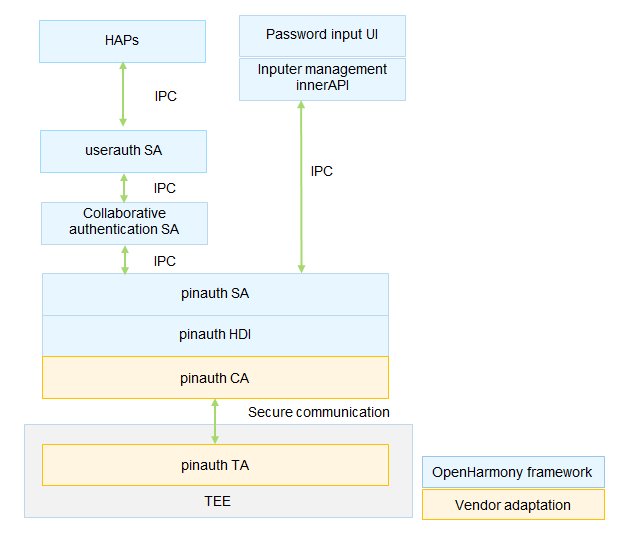
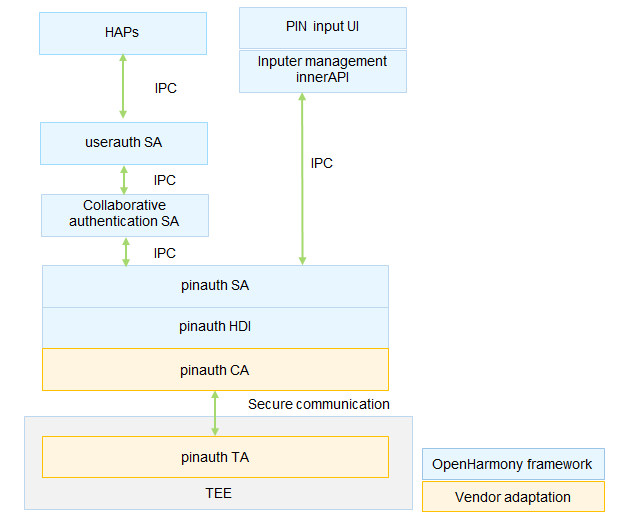
update docs

diff --git a/README.md b/README.md
@@ -4,9 +4,9 @@
 
 ## Introduction
 
-The PIN authentication (pinauth) module supports password authentication and allows users to set and delete passwords. Working with the basic framework of the IAM subsystem, the pinauth module supports change of user passwords.
+The PIN authentication (pinauth) module allows users to set and delete their Personal Information Numbers (PINs) and supports authentication of these PINs. Working with the basic framework of the User IAM subsystem, the pinauth module supports PIN change.
 
-As the basic user authentication executor of OpenHarmony, pinauth registers resource information related to password authentication to the collaborative authentication framework based on the resource registration interface defined by collaborative authentication, and implements password setting, deletion, and authentication based on the scheduling of the collaborative authentication framework.
+pinauth is one of the basic user identity authentication executors of OpenHarmony. It registers resource information related to PIN authentication to the collaborative authentication framework based on the resource registration interface defined by collaborative authentication, and implements PIN setting, deletion, and authentication based on the scheduling of the collaborative authentication framework.
 
 **Figure 1** pinauth architecture
 
@@ -14,29 +14,29 @@ As the basic user authentication executor of OpenHarmony, pinauth registers reso
 
 
 
-User passwords are core assets in the system. The following security measures are taken in password authentication for security purposes:
+PINs are core assets in the system. The following security measures are taken in PIN authentication for security purposes:
 
-1. The password input user interface (currently including the password setting and password authentication dialog boxes) is provided by the system-level application (<sup>Note 1</sup>). The dialog boxes involved in user settings are provided by the setting application, and the password input dialog boxes involved in the screen unlock authentication are provided by the lock screen application.
-2. Password data transmission: The raw password data is not transmitted across devices. After a user password is entered in the password input dialog box, the raw password data entered is transmitted to the password authentication SA only after unidirectional processing in the input model management innerAPI.
-3. Secure storage and comparison of password data: The password authentication HDI defines the adaptation interfaces for device vendors. Device vendors can implement secure password comparison and storage in a TEE. <sup>Note 2</sup>
+- The PIN input user interface (currently including the PIN setting and PIN authentication dialog boxes) is provided by the system-level application (<sup>Note 1</sup>). The dialog boxes involved in user settings are provided by the **Settings** application, and the PIN input dialog boxes involved in the screen unlock authentication are provided by the **Lock screen** application.
+- Password data transmission: The raw PIN data is not transmitted across devices. After a user PIN is entered in the PIN input dialog box, the raw PIN data entered is transmitted to the pinauth Service ability only after unidirectional processing in the input model management innerAPI.
+- Secure storage and comparison of PIN data: The pinauth HDI defines the adaptation interfaces for device vendors. Device vendors can implement secure PIN comparison and storage in a TEE. <sup>Note 2</sup>
 
-* Note 1: To implement the password input dialog box, the application needs to register the password input dialog box with the password authentication SA through the input dialog box management API. The input box management API requires a high-level access permission and can be invoked only by system users.*
+*Note 1: To implement the PIN input dialog box, the application needs to register the PIN input dialog box with the pinauth Service ability through the input dialog box management API. The input box management API requires a high-level access permission and can be invoked only by system users.*
 
-* Note 2: The OpenHarmony framework provides pure software implementation of password authentication for developers to demonstrate the password authentication function. The pure software implementation does not include the secure storage capability.*
+*Note 2: The OpenHarmony framework provides pure software implementation of PIN authentication for developers to demonstrate the PIN authentication function. The pure software implementation does not include the secure storage capability.*
 
 ## Directory Structure
 
 ```undefined
 //base/user_iam/pin_auth
-├── frameworks		# Framework code
-├── hdi			    # Definitions of APIs of device vendors for adaptation
-├── interfaces		# Directory for storing external interfaces
-│   └── innerkits	# Header files exposed to the internal subsystem
-├── sa_profile		# Profile of the Service Ability
-├── services		# Implementation of Service Ability services
-├── unittest		# Directory for storing test code
-├── bundle.json		# Component description file
-└── pinauth.gni		# Build configuration
+├── frameworks			# Framework code
+├── hdi					# APIs defined by device vendors for adaptation
+├── interfaces			# Directory for storing external interfaces
+│   └── innerkits		# Header files exposed to the internal subsystems
+├── sa_profile			# Profile of the Service ability
+├── services			# Implementation of the Service ability
+├── unittest			# Directory for storing test code
+├── bundle.json			# Component description file
+└── pinauth.gni			# Build configuration
 ```
 
 
@@ -44,32 +44,32 @@ User passwords are core assets in the system. The following security measures ar
 
 ### Available APIs
 
-**Table 1 ** APIs for managing input dialogs
+**Table 1** APIs for managing input dialog boxes
 
 | API | Description                            |
 | ------ | -------------------------------- |
-| function registerInputer(inputer:IInputer) : boolean; | Registers the **inputer** callback with the password authentication Service Ability.  |
-| function unregisterInputer():void;                    | Unregisters the **inputer** callback from the password authentication Service Ability.|
+| function registerInputer(inputer:IInputer) : boolean; | Registers the **inputer** callback with the pinauth Service ability.  |
+| function unregisterInputer():void;                    | Unregisters the **inputer** callback from the pinauth Service ability.|
 
 **Table 2** APIs for transferring data
 
 | API| Description                      |
 | ------ | -------------------------------- |
-| onGetData : (callback:IInputData)=>void | Obtains the password data.|
-| onSetData:(pinSubType:AuthSubType, data:Uint8Array)=>void | Transfers the password data from the password input dialog box to the password authentication Service Ability.|
+| onGetData : (callback:IInputData)=>void | Obtains the PIN data.|
+| onSetData:(pinSubType:AuthSubType, data:Uint8Array)=>void | Transfers the PIN data from the PIN input dialog box to the pinauth Service ability.|
 
 ### Usage Guidelines
 
-- The APIs defined in the header file ```hdi\main\inc\pin_auth.h``` must be implemented in a secure environment. The password related information must be protected with the highest security level (TEE or security chip).
+- The APIs defined in the header file ```hdi\main\inc\pin_auth.h``` must be implemented in a secure environment. The PIN related information must be protected with the highest security level (TEE or security chip).
 
 ## Repositories Involved
 
-[useriam_auth_executor_mgr](https://gitee.com/openharmony/useriam_auth_executor_mgr/blob/master/README.md)
+[useriam_auth_executor_mgr](https://gitee.com/openharmony-sig/useriam_coauth)
 
-[useriam_user_idm](https://gitee.com/openharmony/useriam_user_idm/blob/master/README.md)
+[useriam_user_idm](https://gitee.com/openharmony-sig/useriam_useridm)
 
-[useriam_user_auth](https://gitee.com/openharmony/useriam_user_auth/blob/master/README.md)
+[useriam_user_auth](https://gitee.com/openharmony-sig/useriam_userauth)
 
-**[useriam_pin_auth](https://gitee.com/openharmony/useriam_pin_auth/blob/master/README.md)**
+**[useriam_pin_auth](https://gitee.com/openharmony-sig/useriam_pinauth)**
 
-useriam_faceauth
+[useriam_faceauth](https://gitee.com/openharmony/useriam_faceauth)
